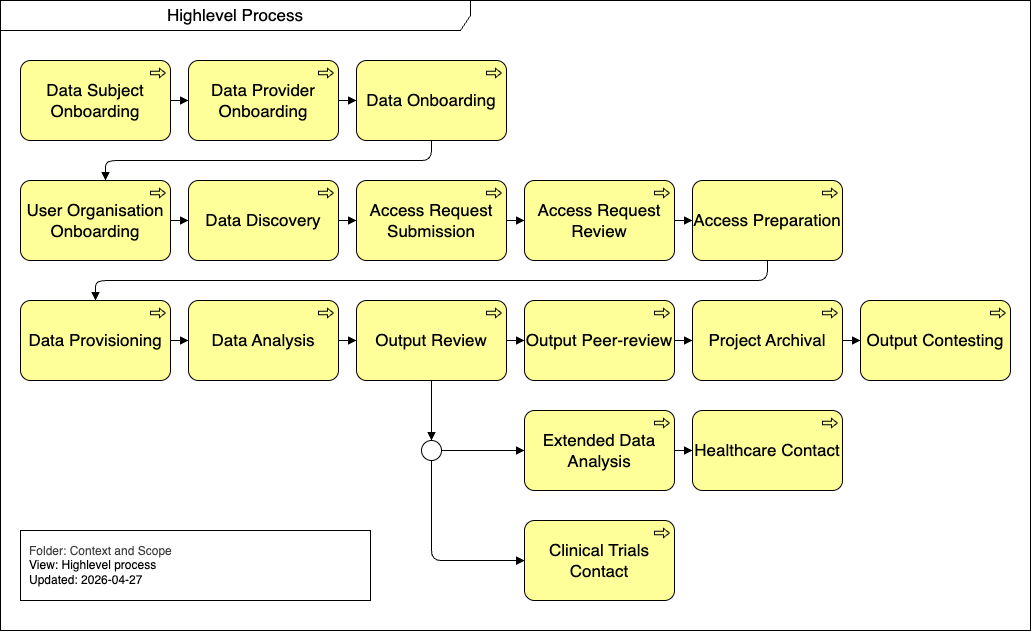
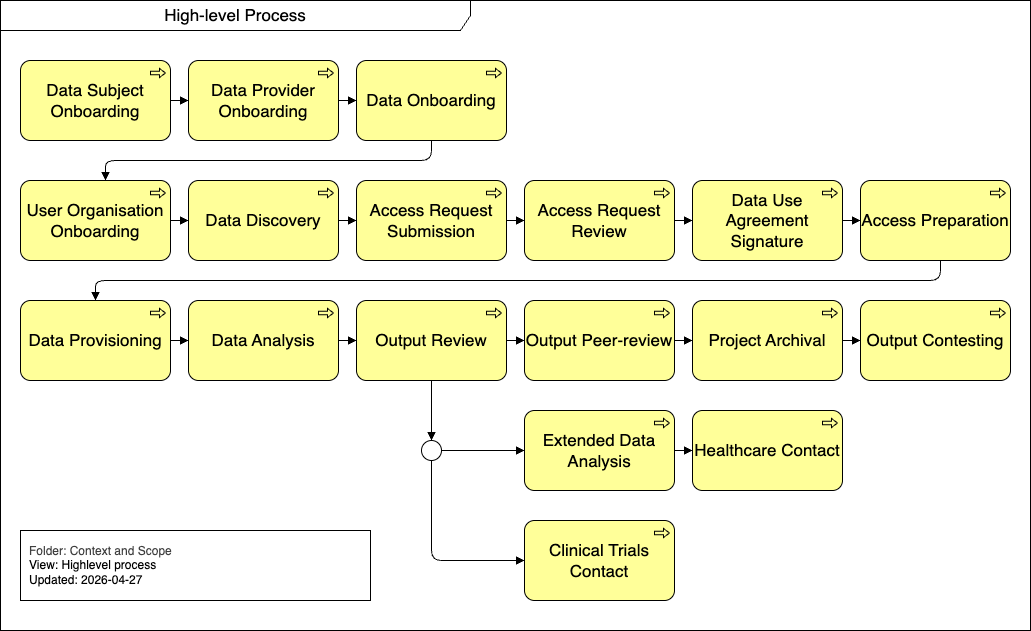
feat: add new diagrams

diff --git a/src/pages/index.tsx b/src/pages/index.tsx
@@ -111,6 +111,13 @@ function Homepage() {
               Review.
             </li>
             <li>
+              <a href="./docs/category/data-use-agreement-signature">
+                Data Use Agreement Signature
+              </a>
+              : Detailed description of the architecture for Data Use Agreement
+              Signature.
+            </li>
+            <li>
               <a href="./docs/category/access-preparation">
                 Access Preparation
               </a>

diff --git a/docusaurus.config.ts b/docusaurus.config.ts
@@ -127,6 +127,10 @@ const config: Config = {
               to: "/docs/category/access-request-review",
             },
             {
+              label: "Data Use Agreement Signature",
+              to: "/docs/category/data-use-agreement-signature",
+            },
+            {
               label: "Access Preparation",
               to: "/docs/category/access-preparation",
             },

diff --git a/docs/access-request-review/runtime-view.md b/docs/access-request-review/runtime-view.md
@@ -7,6 +7,46 @@ sidebar_position: 6
 description: Behavior of building blocks as scenarios, covering important use cases or features, interactions at critical external interfaces, operation and administration plus error and exception behavior.
 ---
 
+import TOCInline from '@theme/TOCInline';
+
 # Runtime View
 
-To be added soon.
+This section details the dynamic behavior and specific scenarios involved in the Access Request Review process. It outlines the operational steps, ethical checks, and consensus-building required to evaluate and approve or reject data access applications.
+
+<TOCInline toc={toc} />
+
+## Overview
+
+![Access Request Review SIPOC](./assets/access_request_review_sipoc.drawio.png)
+
+## Perform conformity checks
+
+Central Coordination performs initial conformity checks on the submitted data access application to ensure all requirements are met, generating an Application Conformity Check Report for the User.
+
+## Transmit application
+
+Once conformity is verified, Central Coordination transmits the submitted data access application to the Affected National Coordination Points for awareness and further processing.
+
+## Perform Ethics checks
+
+For requests that are not related to healthcare re-use or quality management, the 1+MG DAC performs ethics checks on the transmitted application, producing an Ethics Review Report for Central Coordination.
+
+## Notify NCPs and give ethics recommendations
+
+If issues are identified during the ethics checks, a Temporary Ethics Board formed by Central Coordination uses the transmitted application and Ethics Review Report to notify National Coordination Points and provide Ethics Recommendations to the 1+MG DAC and Affected National Coordination Points.
+
+## Give opinion / recommendation on access
+
+Unless the request is solely for quality management (which bypasses this step), the 1+MG DAC and Affected National Coordination Points review the transmitted application alongside any Ethics Recommendations to formulate their decision. This process generates the 1+MG DAC Access Opinion / Recommendation and Local DACs Access Opinion / Recommendation for Central Coordination.
+
+## Find consensus (if deviating opinions) and perform formal approval or rejection
+
+Central Coordination gathers the various access opinions and recommendations. If there are deviating opinions, they facilitate a process to find consensus before performing the formal approval or rejection of the request. The resulting Approval or Rejection Form is then shared with the 1+MG DAC and Affected National Coordination Points.
+
+## Start re-dress procedure (if requested)
+
+In the event of a rejection, the User may submit an Appeal Form. Central Coordination will then start a re-dress procedure to review the appeal, producing an Appeal Form Review for the User.
+
+## Notify approval
+
+If the request is approved, Central Coordination uses the Approval Form to formally notify the User of the approval, generating the final Project Definition.

diff --git a/docs/access-request-submission/runtime-view.md b/docs/access-request-submission/runtime-view.md
@@ -7,6 +7,42 @@ sidebar_position: 6
 description: Behavior of building blocks as scenarios, covering important use cases or features, interactions at critical external interfaces, operation and administration plus error and exception behavior.
 ---
 
+import TOCInline from '@theme/TOCInline';
+
 # Runtime View
 
-To be added soon.
+This section details the dynamic behavior and scenarios involved in the Access Request Submission process. It outlines the step-by-step workflows and interactions required to successfully submit an application for data access within the network.
+
+<TOCInline toc={toc} />
+
+## Overview
+
+![SIPOC Analysis](./assets/access_request_submission_sipoc.drawio.png)
+
+## Create Data Access Application
+
+A user initiates the access request by selecting the desired datasets and creating a draft data access application. This draft serves as the foundational document where all requirements, research goals, and required data variables will be detailed.
+
+## Invite collaborator from the same organisation (optional)
+
+If the research project involves multiple individuals from the same organisation, the primary user can invite them as collaborators. These collaborators can then contribute to filling out and reviewing the data access application.
+
+## Invite collaborator from the different organisation (optional)
+
+For cross-organisational research projects, the primary user has the option to invite external collaborators. This facilitates joint research efforts by allowing members from different vetted organisations to collaborate on a single data access application.
+
+## Fill application
+
+The user, along with any invited collaborators, provides the necessary details within the application form. This includes specifying the research purpose, methodology, requested datasets, and ensuring all ethical and legal requirements are addressed.
+
+## Start application submission
+
+Once the application is fully completed, the user initiates the submission process. This action typically forwards the finalized draft to the user organisation's signing official for formal approval before it reaches the data access committee.
+
+## Confirm submission by the signing official
+
+The designated signing official from the user organisation reviews the application. By confirming the submission, the official provides organizational endorsement, verifying that the request aligns with the organisation's policies and the terms of service.
+
+## Inform about initial cost estimates
+
+Upon receiving the submitted application, the 1+MG DAC reviews the request and provides the user with an initial estimate of the costs associated with data provisioning, processing, or egress, allowing the user to secure necessary funding or approvals.

diff --git a/docs/data-use-agreement-signature/runtime-view.md b/docs/data-use-agreement-signature/runtime-view.md
@@ -1,0 +1,36 @@
+---
+# SPDX-FileCopyrightText: 2026 PNED G.I.E.
+#
+# SPDX-License-Identifier: CC-BY-4.0
+
+sidebar_position: 6
+description: Behavior of building blocks as scenarios, covering important use cases or features, interactions at critical external interfaces, operation and administration plus error and exception behavior.
+---
+
+import TOCInline from '@theme/TOCInline';
+
+# Runtime View
+
+This section details the dynamic behavior and specific scenarios involved in the Data Use Agreement Signature process. It outlines the necessary steps for communicating costs, collecting consent, and the final execution of the contract between the involved parties.
+
+<TOCInline toc={toc} />
+
+## Overview
+
+![Data Use Agreement Signature SIPOC](./assets/data_use_agreement_signature_sipoc.drawio.png)
+
+## Inform about costs
+
+Central Coordination reviews the Project Conditions and provides the User with an Updated Cost Summary, ensuring full transparency regarding any financial requirements associated with the project.
+
+## Generate and send information and Consent form
+
+Based on the Project Conditions, the National Coordination Point generates a tailored Information and Consent Form, which is then sent to the Data Subject for their review.
+
+## Collect consent
+
+The Data Subject reviews the information and provides their Consent for Project. This allows the National Coordination Point to collect the consent and produce Updated Project Conditions.
+
+## Issue and sign data use agreement
+
+Using the Updated Project Conditions, Central Coordination issues the final contract and facilitates the signature process, resulting in a Signed Data Use Agreement provided to the National Coordination Point.

diff --git a/docs/data-use-agreement-signature/building-block-view.md b/docs/data-use-agreement-signature/building-block-view.md
@@ -1,0 +1,12 @@
+---
+# SPDX-FileCopyrightText: 2026 PNED G.I.E.
+#
+# SPDX-License-Identifier: CC-BY-4.0
+
+sidebar_position: 5
+description: Static decomposition of the system, abstractions of source-code, shown as hierarchy of white boxes (containing black boxes), up to the appropriate level of detail.
+---
+
+# Building Block View
+
+To be added soon.

diff --git a/docs/data-use-agreement-signature/deployment-view.md b/docs/data-use-agreement-signature/deployment-view.md
@@ -1,0 +1,12 @@
+---
+# SPDX-FileCopyrightText: 2026 PNED G.I.E.
+#
+# SPDX-License-Identifier: CC-BY-4.0
+
+sidebar_position: 7
+description: Technical infrastructure with environments, computers, processors, topologies. Mapping of (software) building blocks to infrastructure elements.
+---
+
+# Deployment View
+
+To be added soon.

diff --git a/docs/context-and-scope.md b/docs/context-and-scope.md
@@ -34,9 +34,9 @@ The **1+MG Network** operates as a federated network. It does not store data cen
 
 The 1+MG Network operates under a specific governance framework designed to balance cross-border efficiency with national sovereignty.[^30] It is anchored by the **Transnational Code of Conduct** to bridge legal gaps.
 
-**The highlevel process:** [^30]
+**The high-level process:** [^30]
 
-![Highlevel process](./assets/highlevel_process.drawio.png)
+![High-level process](./assets/highlevel_process.drawio.png)
 
 1. **Data Inclusion**
    1. **Data Provider Onboarding**: Registering and validating organizations that supply data to the network.
@@ -47,7 +47,7 @@ The 1+MG Network operates under a specific governance framework designed to bala
    1. **Data Discovery**: Enabling users to search and identify relevant datasets across the federated network.
    1. **Access Request Submission**: Allowing users to submit detailed applications to access specific datasets.
    1. **Access Request Review**: Central and National DACs evaluating the request based on scientific, ethical, and compliance criteria.
-   1. **Contract Signature**: Formalizing the data access agreement between the user and data providers.
+   1. **Data Use Agreement Signature**: Formalizing the data access agreement between the user and data providers.
    1. **Access Preparation**: Setting up the secure processing environment and configuring permissions.
 1. **Data Use**
    1. **Data Provisioning**: Making the requested data securely available to the authorized user's environment.